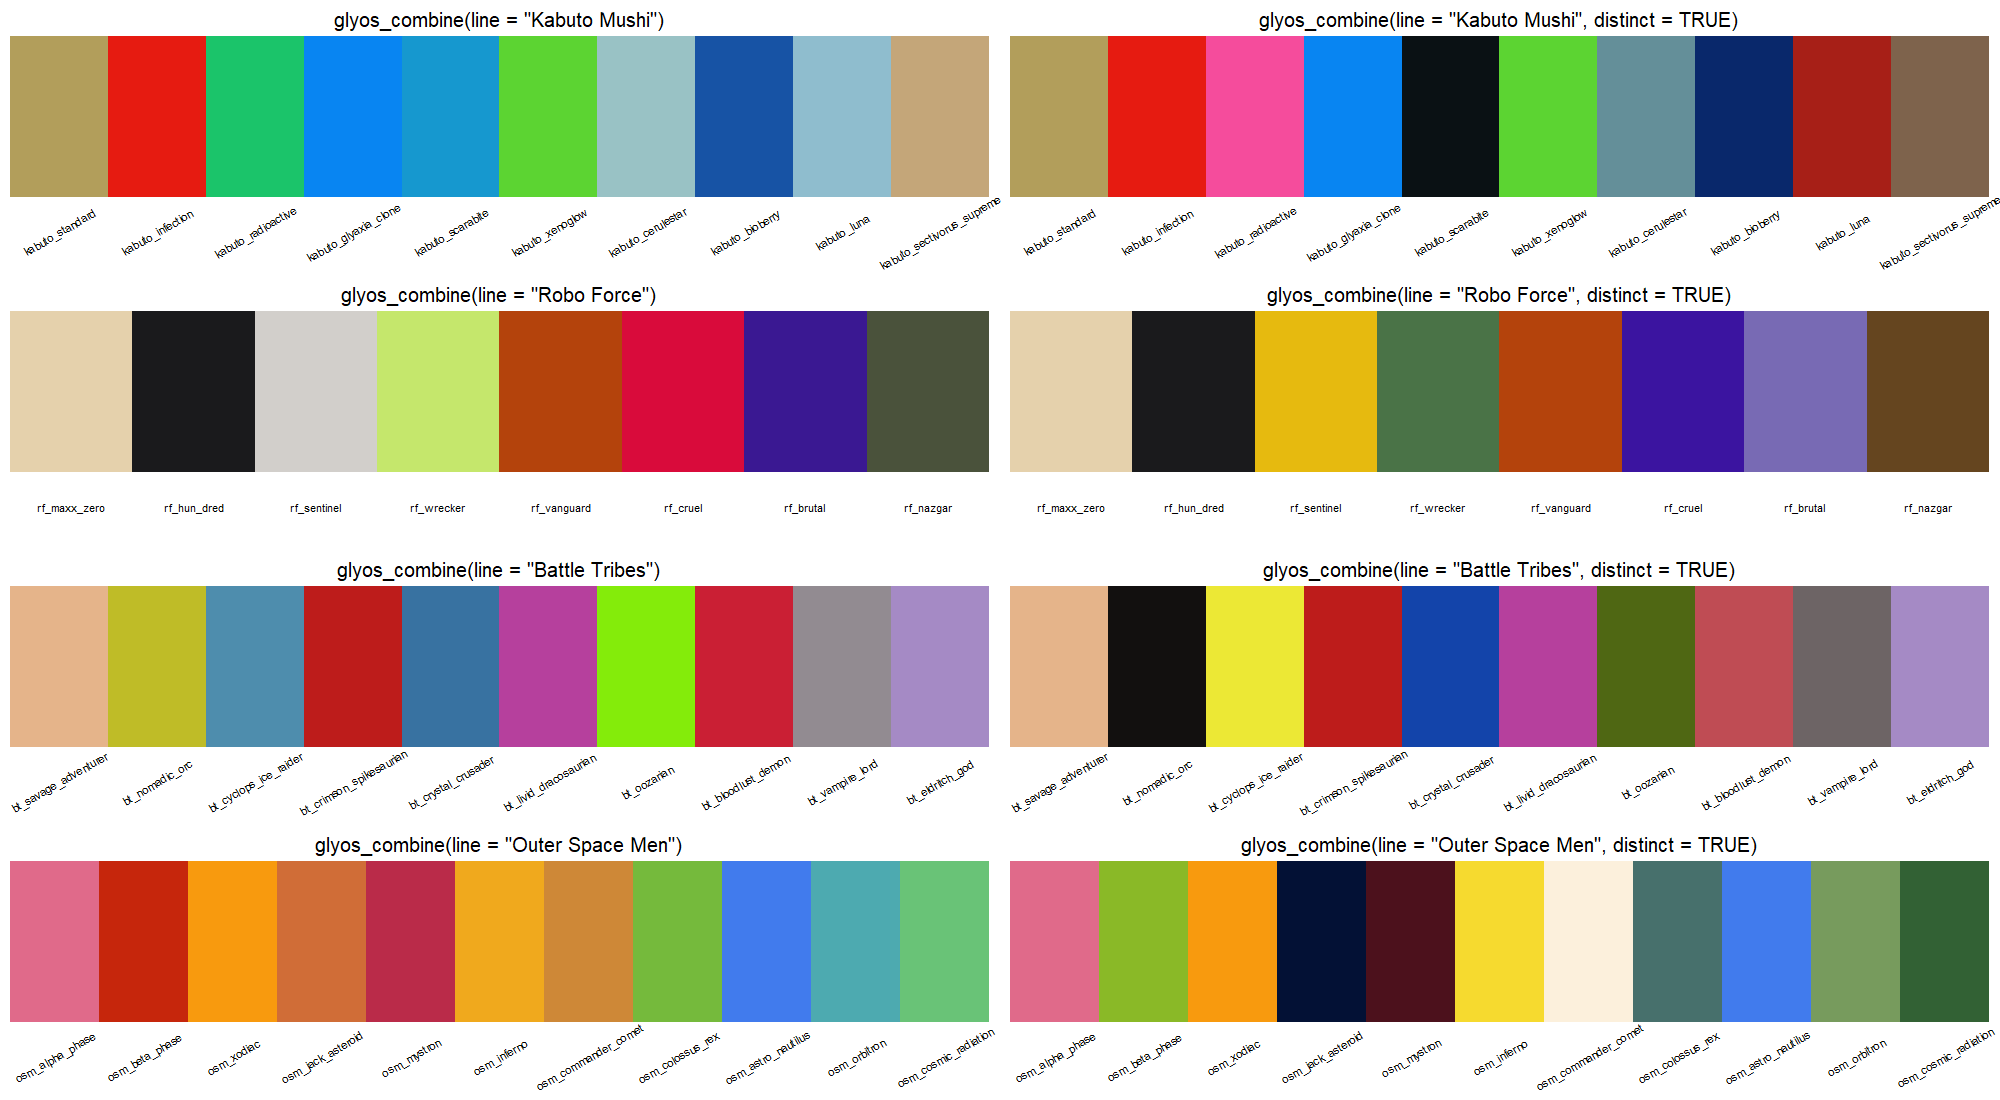
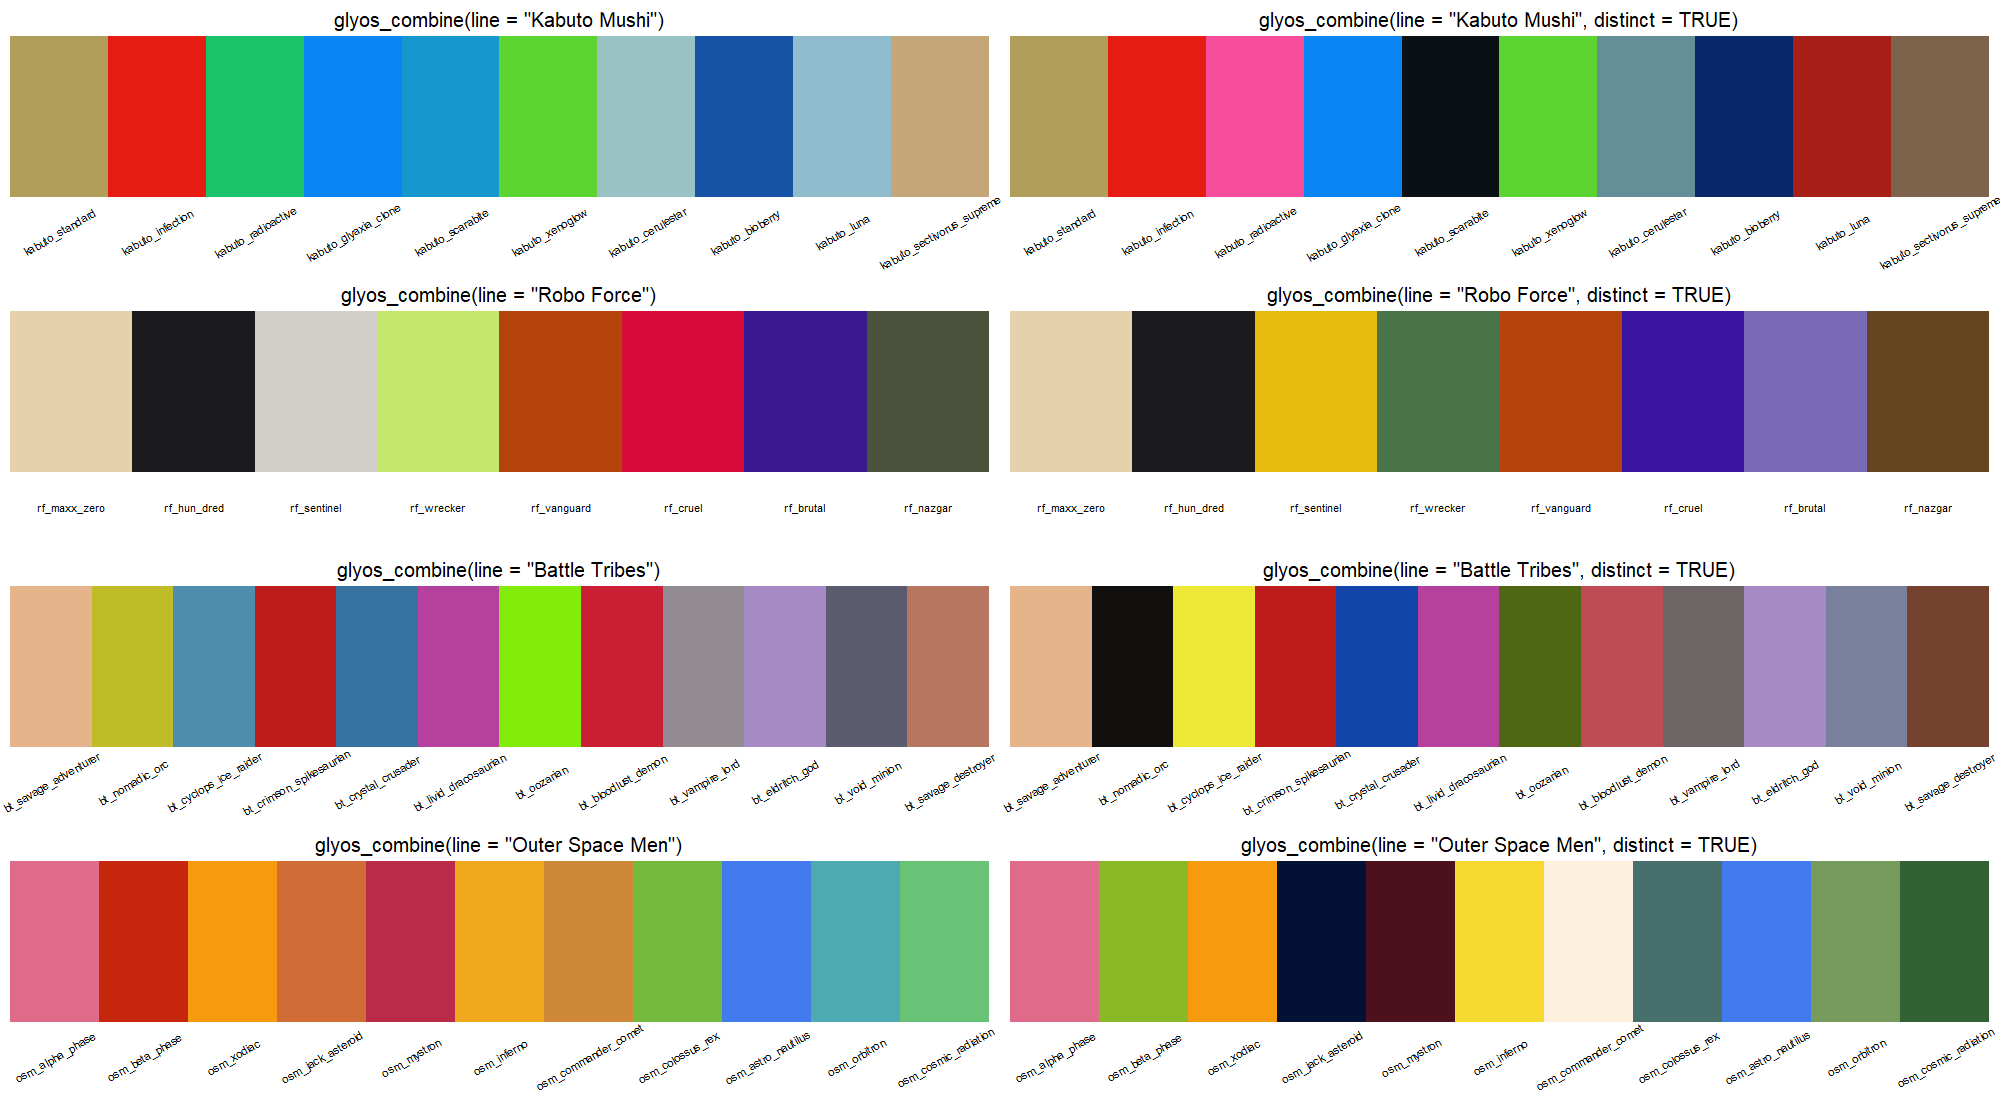
updated palettes with new releases

diff --git a/README.md b/README.md
@@ -249,21 +249,22 @@ sampled from, which is what the online browser shows.
 |---|---|---|---|
 | Onell Design | Glyos | 45 | none, e.g. `spectre`, `glyaxia` |
 | TheGodBeast | Kabuto Mushi | 10 | `kabuto_` |
-| Spy Monkey Creations | Weaponeers of Monkaa, Battle Tribes | 18 | `wom_`, `bt_` |
+| Spy Monkey Creations | Weaponeers of Monkaa, Battle Tribes | 20 | `wom_`, `bt_` |
 | Toyfinity | Robo Force, Mordles, Zeroids, Manglors | 12 | `rf_`, `mordles_`, `zeroids_`, `manglors_` |
 | Four Horsemen Studio | Outer Space Men, Power Lords | 12 | `osm_`, `powerlords_` |
 | Toy Pizza | Knights of the Slice | 10 | `kots_` |
-| Rocom Toys | Mighty Maniax | 10 | `maniax_` |
+| Rocom Toys | Mighty Maniax | 14 | `maniax_` |
 | Bio-Masters Design | Bio-Masters | 8 | `biomass_` |
 | Rawshark Studio | Callgrim | 10 | `callgrim_`, `order_` |
-| ManOrMonster? Studios | Warlords of Wor | 10 | `wor_` |
+| ManOrMonster? Studios | Warlords of Wor | 12 | `wor_` |
 | NiStuff | Outlander | 10 | `outlander_` |
-| Nemo's Factory | A/V Robot | 8 | `avrobot_` |
-| Cappy Space | Cappy Space | 8 | `cappy_` |
+| Nemo's Factory | A/V Robot | 10 | `avrobot_` |
+| Cappy Space | Cappy Space | 9 | `cappy_` |
 | Banimon | Banimon | 6 | `banimon_` |
 | Culture Pirates | Bit Figs | 5 | `bitfigs_` |
 | October Toys | Skeleton Warriors, Breaker Buildman | 4 | none |
 | Zullbeasts | Zullbeasts | 4 | none |
+| Swamp City Collectibles | Paleolords | 4 | `paleo_` |
 | Spaced Out Design | Spaced Out, Rise of Acris | 3 | none |
 
 Every partner company's palettes are drawn in `man/figures/palettes-<company>.png`;
@@ -317,6 +318,6 @@ Glyos, Pheyden and the Onell Design colorway names belong to Onell Design.
 Kabuto Mushi, Weaponeers of Monkaa, Battle Tribes, Robo Force, Zeroids,
 Manglors, Mordles, Outer Space Men, Power Lords, Knights of the Slice, Mighty
 Maniax, Bio-Masters, Callgrim, Warlords of Wor, Outlander, A/V Robot, Bit
-Figs, Banimon, Skeleton Warriors and Zullbeasts belong to their respective
+Figs, Banimon, Skeleton Warriors, Zullbeasts and Paleolords belong to their respective
 companies. This package only records approximate color values and uses the
 names to refer to them.

diff --git a/NEWS.md b/NEWS.md
@@ -1,5 +1,10 @@
 # glyospalettes 0.3.0
 
+* Fifteen new palettes from releases since the first sampling pass: the
+  Paleolords Wave 1 figures (Dan Suarez's new Glyos-compatible line, listed
+  under his company "Swamp City Collectibles" with the `paleo_` prefix), plus new Battle Tribes, Mighty
+  Maniax, Warlords of Wor, A/V Robot and Cappy Space figures. 208 palettes in
+  total.
 * New `glyos_credit()` writes a figure-caption or acknowledgments sentence
   naming the colorways used and the companies that designed them, and follows
   picks and combines back to their source palettes. `citation("glyospalettes")`

diff --git a/data-raw/README.md b/data-raw/README.md
@@ -30,3 +30,8 @@ drop announcements on the Glyos Transmission Web Log
 (https://glyos.fandom.com/) for the partner lines.
 
 `make_figures.R` regenerates the README figures in `man/figures/`.
+
+`resample_2026-10.json` holds the same background-free clusters for the fifteen
+palettes added in October 2026 (Paleolords Wave 1 and new Battle Tribes, Mighty
+Maniax, Warlords of Wor, A/V Robot and Cappy Space figures), all sampled from
+the lead photograph of the figure's Glyos Wiki page.
